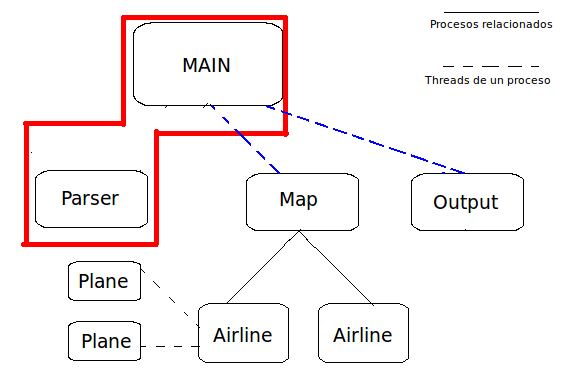
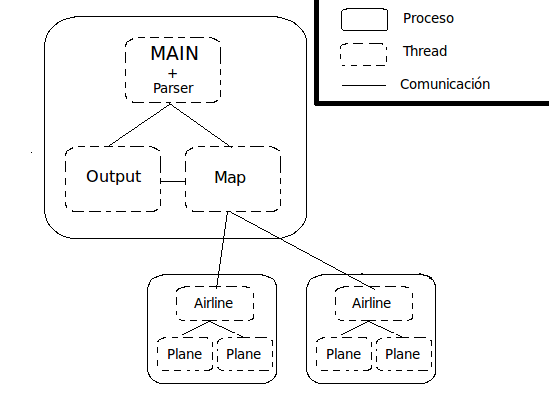
Cambios en las imagenes del informee

diff --git a/doc/informe.tex b/doc/informe.tex
@@ -88,7 +88,8 @@ como \textit{threads}. En este debate, también fue importante no forzar la sepa
 fuera un proceso independiente no agregaba nada y generaba mucha complejidad, por lo que se optó por implementarlos como \textit{threads}).\\ 
 
 En un \textbf{primer} análisis, identificamos como potenciales procesos paralelos de nuestro programa al control del flujo principal del programa, a los parsers, 
-al mapa, al \textit{output}, a las aerolíneas y a los aviones. A continuación se puede ver un esquema de este modelo.\\
+al mapa, al \textit{output}, a las aerolíneas y a los aviones. Ya desde un comienzo nos planteamos a estos
+dos últimos como threads de un mismo proceso. A continuación se puede ver un esquema de este modelo.\\
 
 \begin{figure}[H]
 \begin{center}
